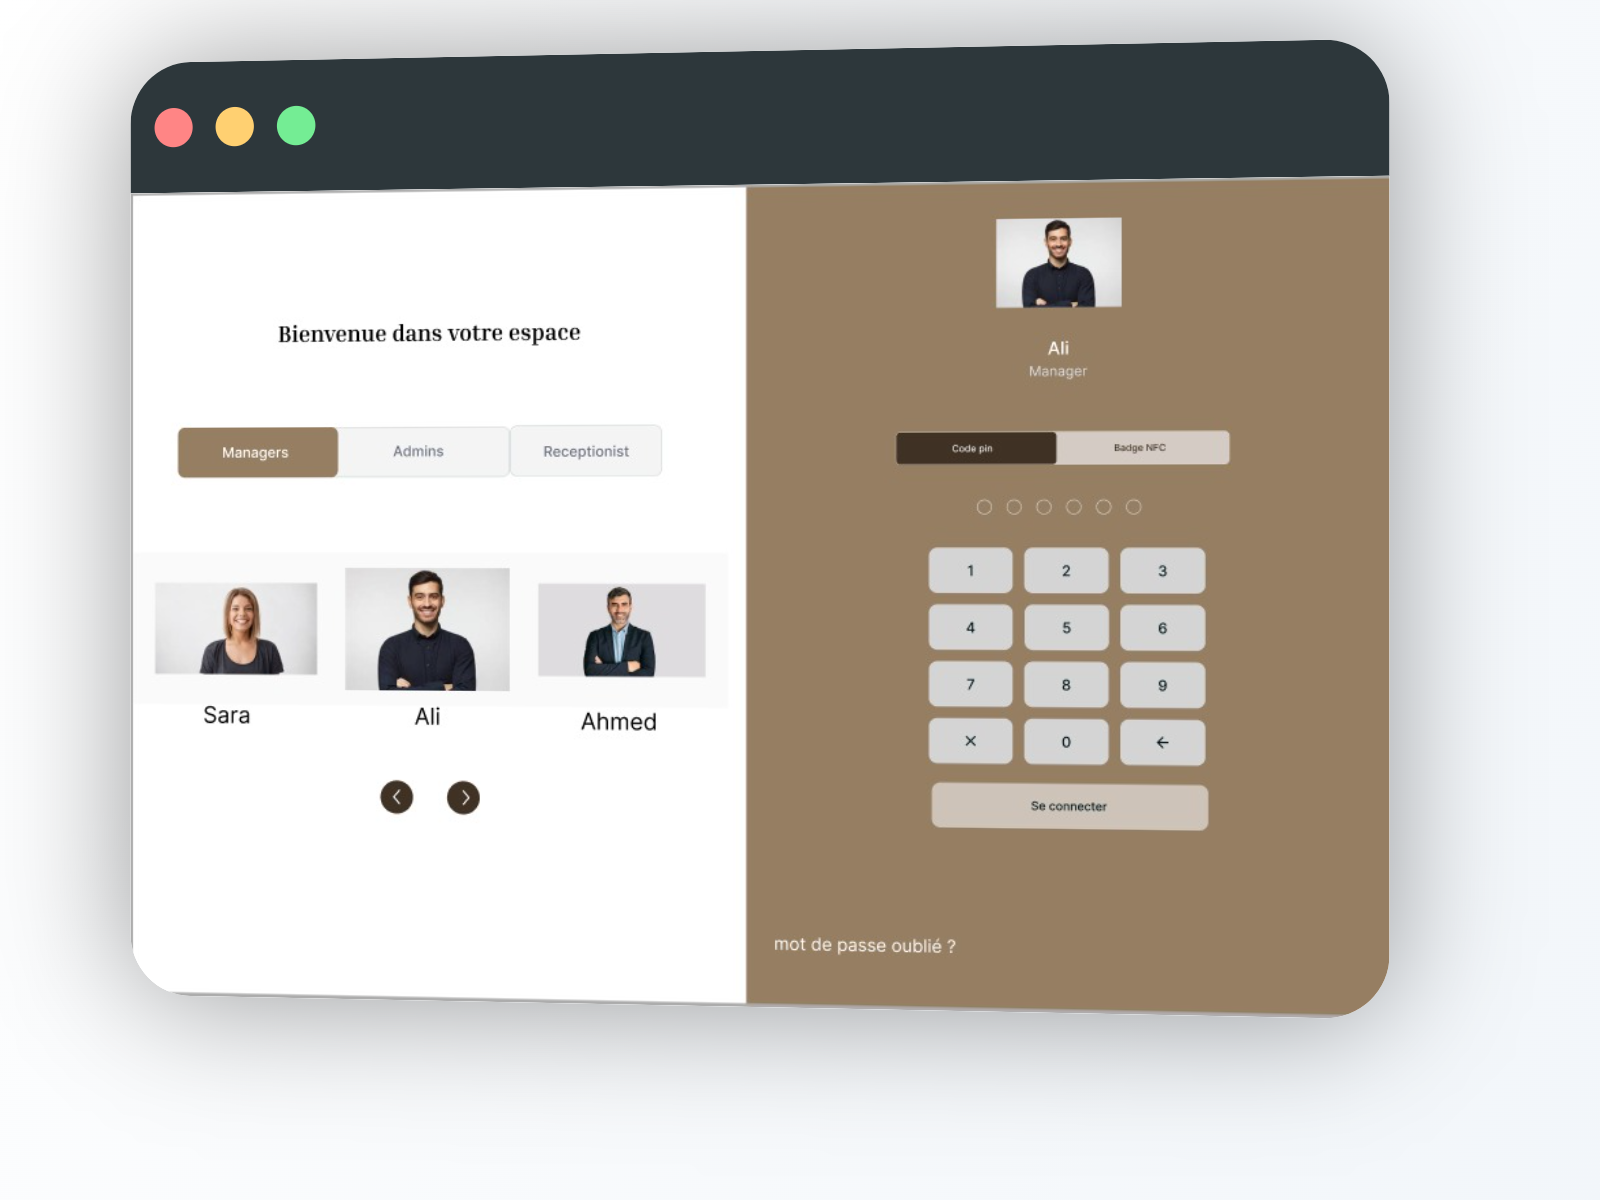
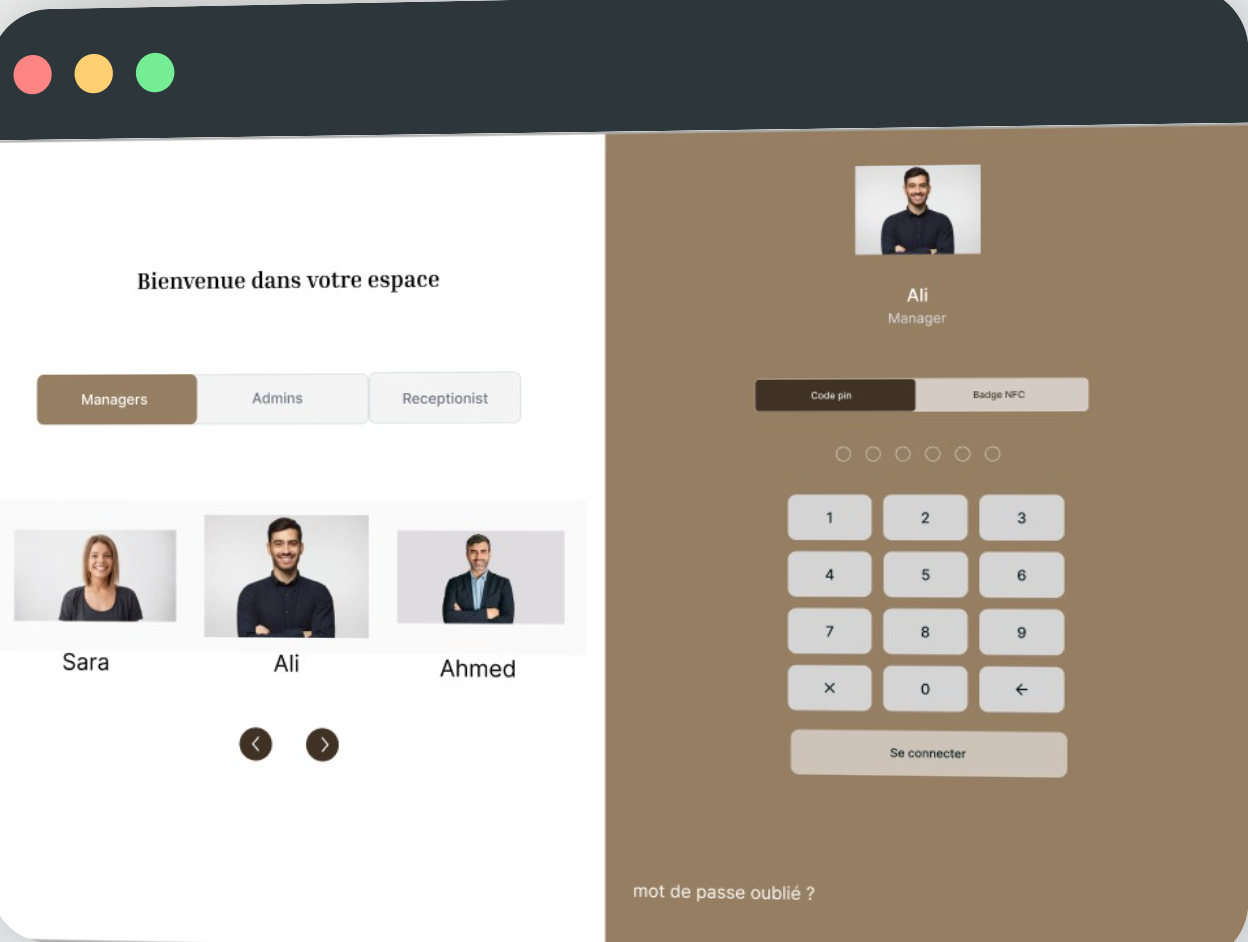
modfying the styling of projectCard component

diff --git a/src/components/TimeLine.tsx b/src/components/TimeLine.tsx
@@ -30,7 +30,7 @@ export const TimeLine = () => {
             <Timeline.Content flex="1" />
           </Timeline.Item>
 
-          {/* 2 — Property Management System */}
+          {/* 2 —Hotel Management System */}
           <Timeline.Item>
             <Timeline.Content flex="1" />
             <Timeline.Connector
@@ -44,7 +44,7 @@ export const TimeLine = () => {
 
             <Timeline.Content flex="1">
               <Timeline.Title fontWeight="bold">
-                Property Management System (PMS)
+                Hotel Management System (PMS)
               </Timeline.Title>
               <Text fontSize="sm" color="gray.600">
                 Internship Project | Sept 2025 – Present
@@ -55,33 +55,6 @@ export const TimeLine = () => {
                 and AWS deployment.
               </Text>
             </Timeline.Content>
-          </Timeline.Item>
-
-          {/* 3 — Movie Search Application */}
-          <Timeline.Item>
-            <Timeline.Content flex="1">
-              <Timeline.Title fontWeight="bold">
-                Movie Listing & Search Application
-              </Timeline.Title>
-              <Text fontSize="sm" color="gray.600">
-                Nicosia, Cyprus | April 2025
-              </Text>
-              <Text fontSize="sm">
-                Developed a responsive movie search platform using TMDb API with
-                React, dynamic filtering, and interactive UI components.
-              </Text>
-            </Timeline.Content>
-
-            <Timeline.Connector
-              _before={{
-                bgGradient: "linear(to-b, #7A5AF5, #B794F4)",
-              }}
-            >
-              <Timeline.Separator />
-              <Timeline.Indicator bg="#f40909ff" borderColor="#B794F4" />
-            </Timeline.Connector>
-
-            <Timeline.Content flex="1" />
           </Timeline.Item>
 
           {/* 4 — Banking Management System (NEW ONE HERE) */}

diff --git a/src/Data/projectCardData.ts b/src/Data/projectCardData.ts
@@ -5,9 +5,9 @@ import img5 from  "public/imgs/NoteBuds.png";
 import img6 from  "public/imgs/ExpensesIncomeTrackApp.png";
 export const projectCardData : ProjectCardInfos[] = [
   {
-    title: "Project Management System", 
-    date: "March 2023",
-    description: "A comprehensive project management web application that allows teams to collaborate, track progress, and manage tasks efficiently.",
+    title: "Hotel Management System", 
+    date: "October 2025",
+    description: "A web app for managing hotel operations with role-based access: Frontoffice for receptionists to handle bookings and guest details, and Backoffice for managers/admins to manage rooms, shifts, and statistics.",
     stack: ["React", "Node.js", "Express", "MongoDB"],
     image: img3,
   },

diff --git a/src/components/projectCrad.tsx b/src/components/projectCrad.tsx
@@ -6,22 +6,18 @@ type Props = {
 export const ProjectCard = ({ project }: Props) => {
   return (
     <Card.Root
+      w="100%"
       flexDirection="row"
       overflow="hidden"
-      maxW="xl"
       h="228px"
       boxShadow="lg"
       borderRadius="xl"
     >
-      <Image
-        objectFit="cover"
-        maxW="200px"
-        src={project.image}
-        alt="Caffe Latte"
-      />
+      <Image objectFit="cover" maxW="200px" src={project.image} />
       <Box>
         <Card.Body p="6">
           <Card.Title mb="2">{project.title}</Card.Title>
+
           <Card.Description>{project.description}</Card.Description>
           <HStack mt="4">
             <Badge color="blue.500">{project.stack[0]}</Badge>

diff --git a/src/components/About.tsx b/src/components/About.tsx
@@ -26,7 +26,7 @@ export const About = () => {
         <Fade duration={1500} delay={2300} triggerOnce>
           <TimeLine />
         </Fade>
-        <VStack mt={10} mb={10}>
+        <VStack mt={10} mb={10} maxW="xxl" w="100%" align="stretch">
           <Fade>
             <Text fontSize="28px" fontWeight="650" mb={4} textAlign="start">
               Projects
